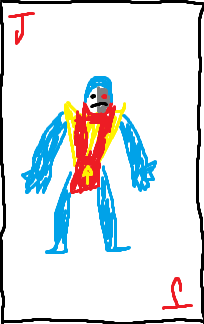
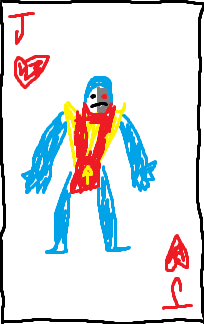
updated garbage and cardfunc
~changed the suits in the card generator to make getting card files easier
~changed setHand to show images instead of text
~updated cards to include all card and backs and removed redundant cards.
+added a function to get images to garbage

Changed region(s): [[0.0588, 0.1543, 0.2647, 0.2778], [0.7941, 0.7099, 0.9412, 0.8642]]

diff --git a/Main/Garbage/garbage.js b/Main/Garbage/garbage.js
@@ -5,7 +5,7 @@ window.onload = function() {
     for (let i = 0; i <= 19; i++) {
         var currCard = document.getElementById(id + i);
         var img = document.createElement("img");
-        img.setAttribute("src", "../images/card base.png");
+        img.setAttribute("src", "../images/E-Back.png");
         img.setAttribute("class", "card");
 
         currCard.appendChild(img);
@@ -19,7 +19,9 @@ var hand;
 function setHand() {
     var drawnCard = draw();
     var playerHand = document.getElementById("player-hand");
-    var card = document.createTextNode(drawnCard.suit + " " + drawnCard.face);
+    var card = document.createElement("img");
+    card.setAttribute("src", getCardImage(drawnCard));
+    card.setAttribute("class", "card");
     
     if (playerHand.firstChild) {
         playerHand.removeChild(playerHand.firstChild);
@@ -29,4 +31,12 @@ function setHand() {
     console.log(drawnCard);
 
     hand = drawnCard;
+}
+
+function getCardImage(card) {
+    var suit = card.suit;
+    var face = card.face;
+    let file = "../images/"+suit+"-"+face+".png";
+
+    return file;
 }

diff --git a/Main/Garbage/garbage.html b/Main/Garbage/garbage.html
@@ -8,6 +8,7 @@
         <title>Garbage</title>
     </header>
     <body>
+        
         <h1>player 1</h1>
         <div id="player1-field" class="player-field">
             <div id="card-0" class="card"></div>
@@ -22,9 +23,12 @@
             <div id="card-9" class="card"></div>
         </div>
 
+        <h1>Deck</h1>
         <div id="deck">
-            <img src="../images/card base.png" alt="deck" onclick="setHand()" class="card">
+            <img src="../images/E-Back.png" alt="deck" onclick="setHand()" class="card">
         </div>
+
+        <h1>Hand</h1>
         <div id="hand">
             <div id="player-hand" class="card"></div>
         </div>

diff --git a/Main/cardFuncs.js b/Main/cardFuncs.js
@@ -5,7 +5,7 @@ var deck = [];
 
 // creates a new deck of 52 cards
 function newDeck() {
-    var suit = ["spade", "heart", "club", "diamond"];
+    var suit = ["S", "H", "C", "D"];
     var face = ["A", 2, 3, 4, 5, 6, 7, 8, 9, 10, "J", "Q", "K"];
     var cardCounter = 0;
 

diff --git a/Main/Garbage/garbage.css b/Main/Garbage/garbage.css
@@ -7,6 +7,4 @@
     border: 1px solid red;
     height: 200px;
     width: 126px;
-    padding: 3.5px;
-    margin: 3.5px;
 }
